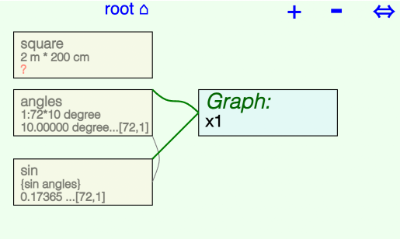
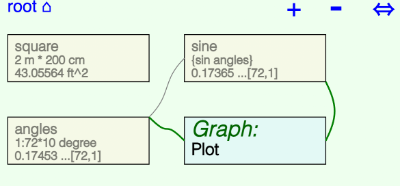
Updated tutorial page

diff --git a/help/tutorial.html b/help/tutorial.html
@@ -43,18 +43,22 @@
 			<div id="getstart" class="section">
 				<h3>Getting Started</h3>
 				<p>
-					When you first access Math Minion on a new server or from a new browser,
+					When you access Math Minion for the first time or on a new server or from a new browser,
 					the <a href="getstarted.html#getstart">Getting Started session</a> will
 					be loaded and if your browser window is wide enough. you will see something
 					like this:
 				</p>
 				<img src="tutorial/getstarted.png" alt="Getting Started">
 				<p>
-					On the left is a <a href="diagram.html">diagram</a> showing various
-					tools, while an <a href="infoview.html">information view</a> about the currently
-					selected <a href="tools.html">tool</a> is shown on the right.  In this case the
-					<a href="htmlpage.html">Html Page tool</a> named <b>Welcome</b> is selected and showing
-					greeting information in the <a href="infoview.html">information view</a>.
+					On the left is a <a href="diagram.html">diagram</a> showing the various
+					tools contained in the root model. A model is simply a collection of tools, possibly
+					including other models.
+				</p>
+				<p>
+					On the right is an <a href="infoview.html">information view</a> about the currently
+					selected <a href="tools.html">tool</a>, which in this case is the root model itself.
+					An results for tools contained by a model can be displayed on its information view
+					and in this case the HtmlPage named welcome is displayed. 
 				</p>
 				<p>
 					On a narrow device, like a phone, you probably will just see the
@@ -89,6 +93,7 @@
 					name field for the <b>root</b> <a href="model.html">model</a> and the
 					<a href="diagram.html">diagram</a> should be blank.
 				</p>
+				<img src="tutorial/blanksession.png" alt="Blank Session">
 			</div>
 			<div id="add" class="section">
 				<h3>Add Expressions</h3>
@@ -98,12 +103,7 @@
 				</p>
 				<img src="tutorial/dgmbgmenu.png" alt="Diagram background menu">
 				<p>
-					Tap on <b>Add Tool to Model</b> to get another menu, this time of available
-					tools:
-				</p>
-				<img src="tutorial/toolmenu.png" alt="Tool menu">
-				<p>
-					Tap on <b>Expression</b> to create an <a href="expression.html">expression tool</a>.
+					Tap on <b>Add Expression</b> to create an <a href="expression.html">expression tool</a>.
 					An icon will appear on the <a href="diagram.html">diagram</a> where you originally tapped:
 				</p>
 				<img src="tutorial/expricon.png" alt="Expression Icon">
@@ -154,7 +154,7 @@
 				</p>
 				<img src="tutorial/unitsview.png" alt="Units view">
 				<p>
-					Tap on <b>US</b> to select US units and then one the <b>&lt; square</b> button
+					Tap on <b>US</b> to select US units and then on the <b>&lt; square</b> button
 					at the upper left to return to the square expression. (Everything that is blue in
 					information views has a tappable action).
 				</p>
@@ -168,7 +168,7 @@
 				</p>
 				<p>
 					Okay, let's try something different. Click on the background again and select
-					<b>Add to Model</b> and <b>Expression</b> to create another expression. Name it
+					<b>Add Expression</b> to create another expression. Name it
 					<b>angles</b> and then tap on the <b>&#10530;</b> icon to the right of the
 					<a href="formulaeditor.html#fields">formula field</a>. This will bring up a
 					<a href="formulaeditor.html#editor">formula editor</a> which allows us to
@@ -231,7 +231,7 @@
 					values calculated.  Similarly all inputs are converted to SI base units immediately.
 				</p>
 				<p>
-					Now create another expression and name it <b>sin</b> and then tap on the <b>&#10530;</b>
+					Now create another expression and name it <b>sine</b> and then tap on the <b>&#10530;</b>
 					icon to the right of the its <a href="formulaeditor.html#fields">formula field</a>.
 				</p>
 				<p>
@@ -265,12 +265,12 @@
 					{sin angles}
 				</p>
 				<p>
-					Tap the <b>Apply</b> button to assign the formula to the <b>sin</b> expression. The
+					Tap the <b>Apply</b> button to assign the formula to the <b>sine</b> expression. The
 					information view should now look like this:
 				</p>
-				<img src="tutorial/sinangles.png" alt="Sin angles">
+				<img src="tutorial/sinangles.png" alt="Sine angles">
 				<p>
-					The sin of all the elements of the array calculated by the <b>angles</b> expression
+					The sine of all the elements of the array calculated by the <b>angles</b> expression
 					appear in the table at the bottom. In general Math Minion operators and functions work
 					on all elements of their arguments.
 				</p>
@@ -292,20 +292,21 @@
 				</p>
 				<p>
 					Note the line going from the corner of the <b>angles</b> expression to the center of one of the
-					vertical sides of the <b>sin</b> expression. This indicates that the <b>sin</b> expression
+					vertical sides of the <b>sine</b> expression. This indicates that the <b>sine</b> expression
 					is using the value of <b>angles</b> in its calculations.
 				</p>
 			</div>
 			<div id="plot" class="subsection">
 				<h3>Plotting Results</h3>
 				<p>
-					Tap on the <a href="diagram.html">diagram</a> background again and this time add a
-					<a href="graph.html">Graph</a>. The information view will look like this:
+					Tap on the <a href="diagram.html">diagram</a> background again and this time select 
+					<b>Add Display Tool</b> and then <a href="graph.html">Graph</a> from the resulting menu.
+					Rename it <b>Plot</b> and the information view will look like this:
 				</p>
 				<img src="tutorial/singraph1.png" alt="Empty graph information view">
 				<p>
 					Enter <b>angles</b> in the <b>x1</b> <a href="formulaeditor.html#fields">formula field</a>
-					and <b>sin</b> in the <b>y1_1</b> one. Note that the unit beside <b>angles</b> is
+					and <b>sine</b> in the <b>y1_1</b> one. Note that the unit beside <b>angles</b> is
 					<b>Fraction</b>. Tap on it and select <b>degree</b> from the
 					<a href="formulaeditor.html#ubrowser">unit browser</a> and <b>Apply</b> it.
 				</p>
@@ -322,7 +323,7 @@
 					0 degrees.
 				</p>
 				<p>
-					Go back to your diagram, which will now look something like this:
+					Go back to your diagram, which may now look something like this:
 				</p>
 				<img src="tutorial/diagram2.png" alt="Diagram">
 				<p>
@@ -333,7 +334,7 @@
 					0:72*10 degree
 				</p>
 				<p>
-					Hit return and then click on the graph icon <b>x1</b> and the correction should be visible:
+					Hit return and then click on the graph icon <b>Plot</b> and the correction should be visible:
 				</p>
 				<img src="tutorial/singraph3.png" alt="Sin plot">
 				<p>
@@ -354,10 +355,6 @@
 						Math Minion can do, so you might want
 						to go back to the <a href="getstarted.html#getstart">Getting Started session</a>
 						and browse through its examples and descriptions as well as other help pages.
-					</p>
-					<p>
-						A slightly more complex walk through is also
-						<a href="tut_ode.html">available</a>
 					</p>
 					<p>
 						If you get stuck or have and questions or comments, please don't hesitate to
